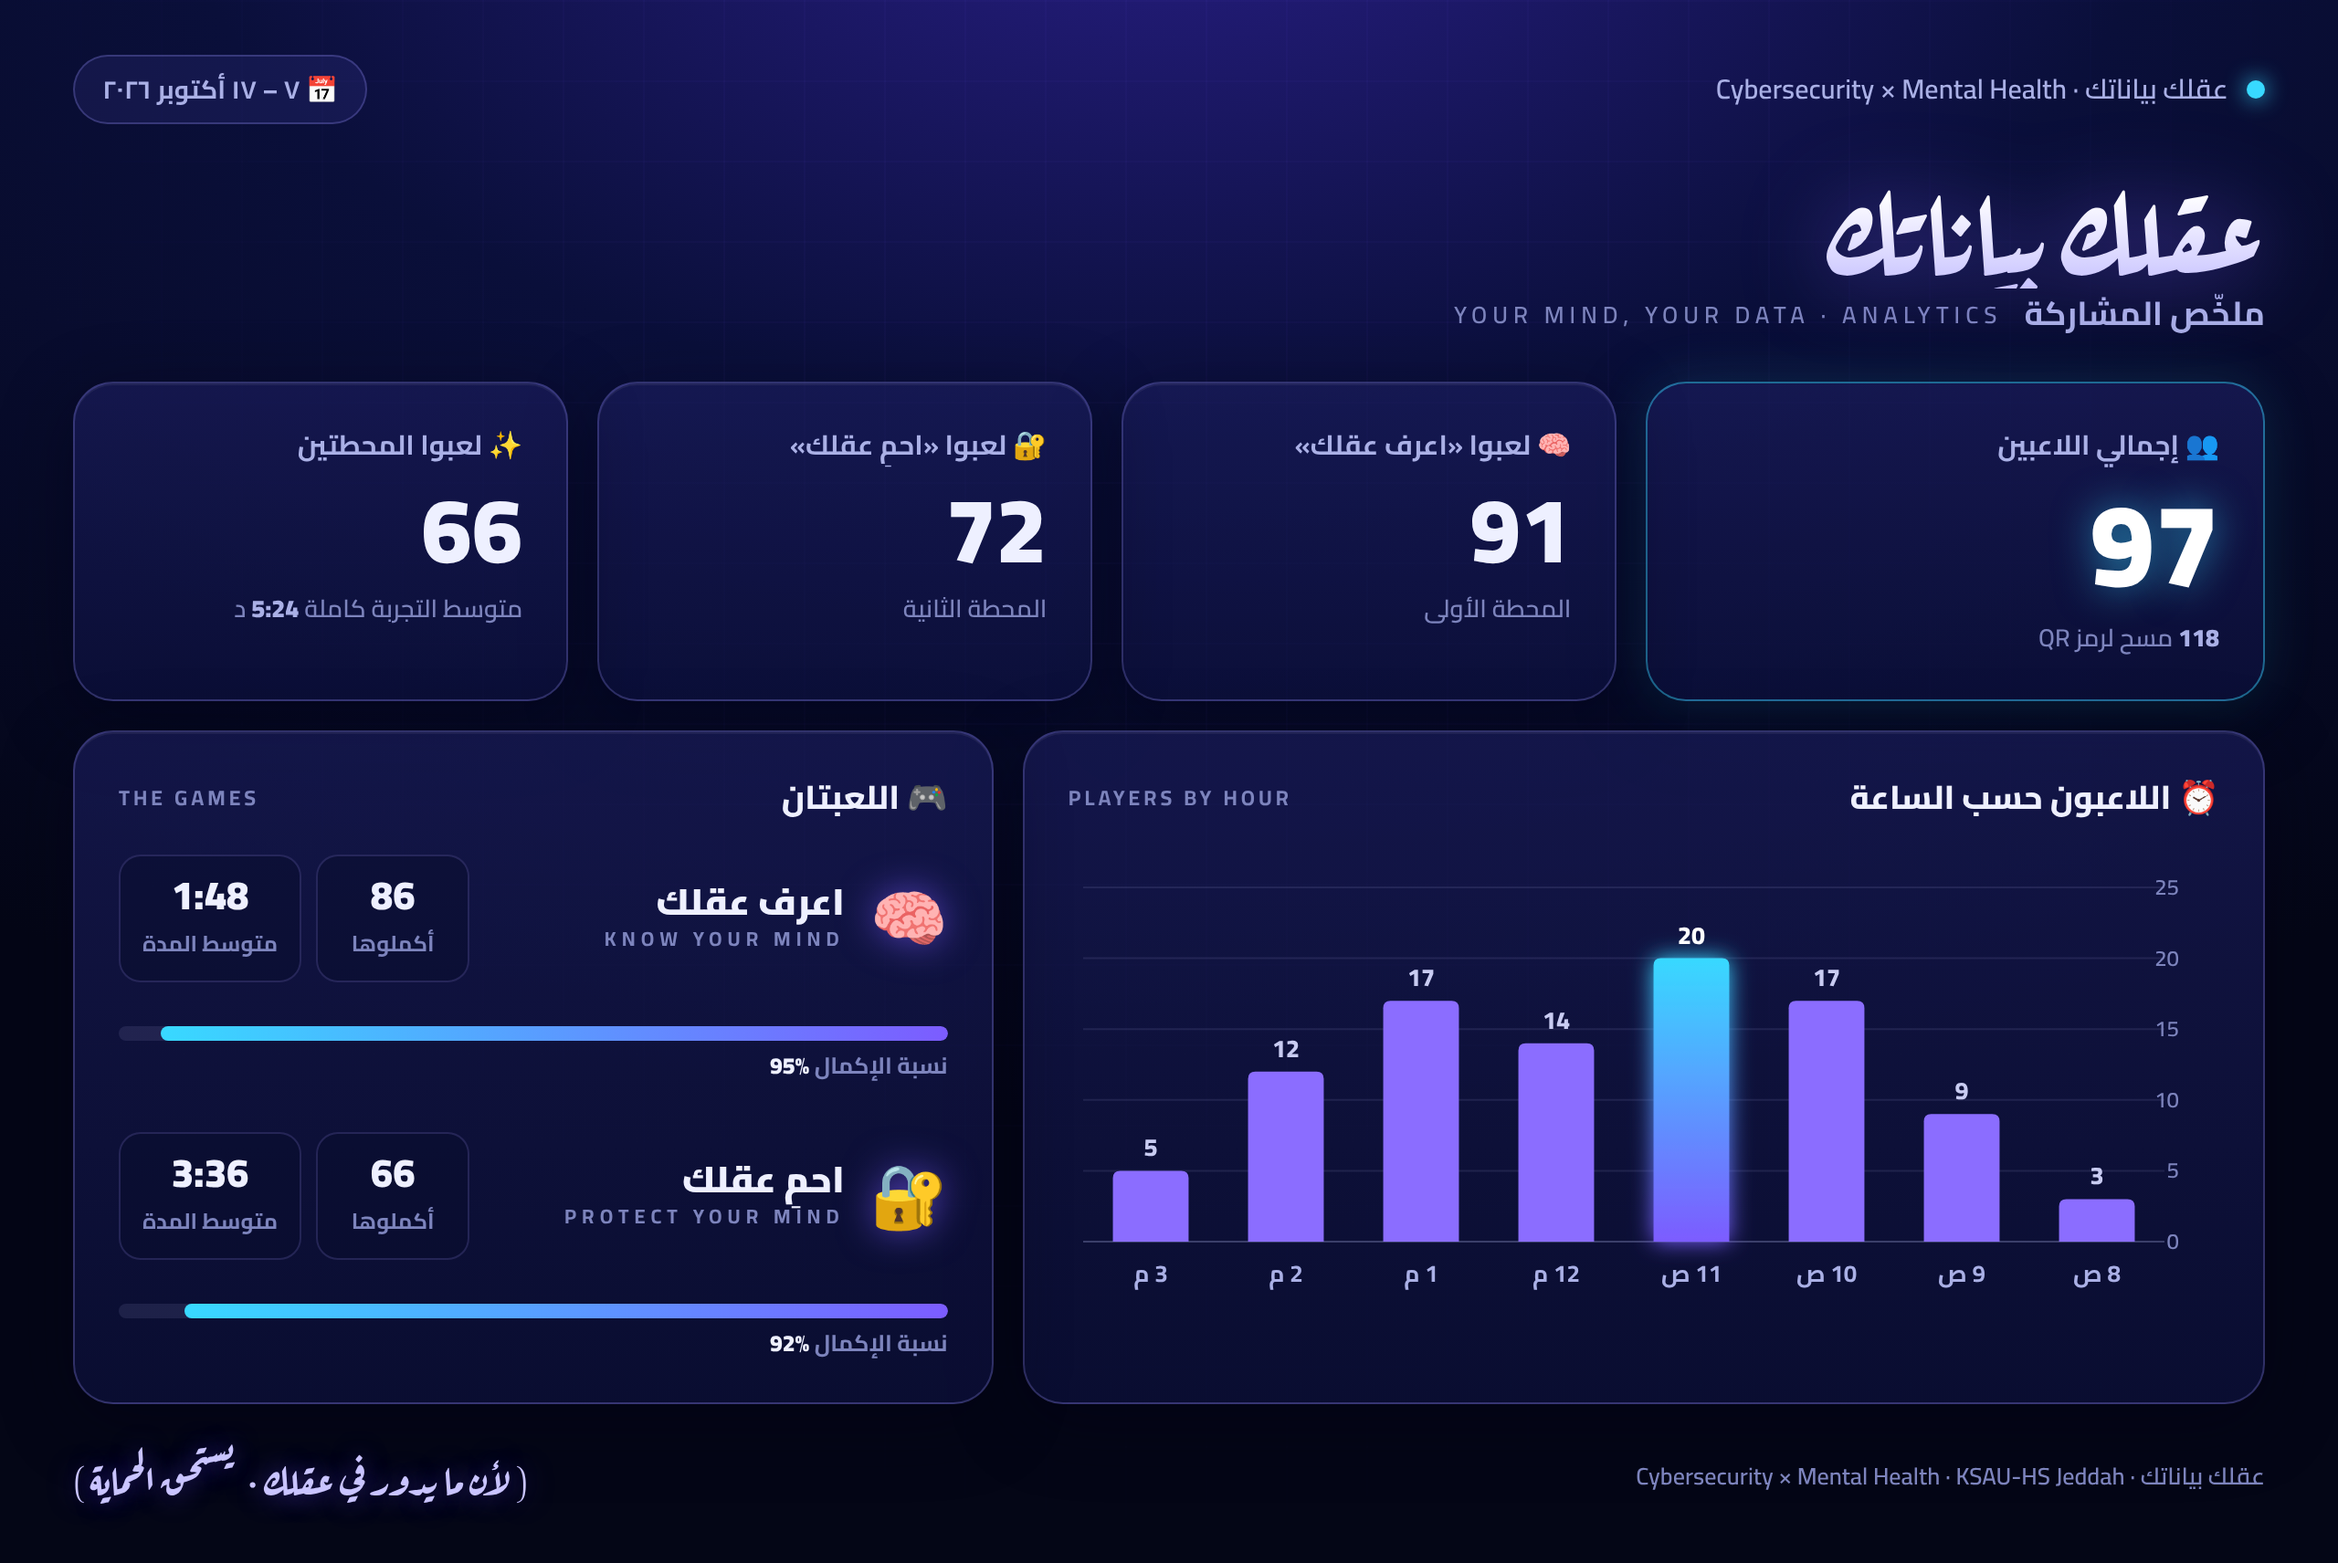
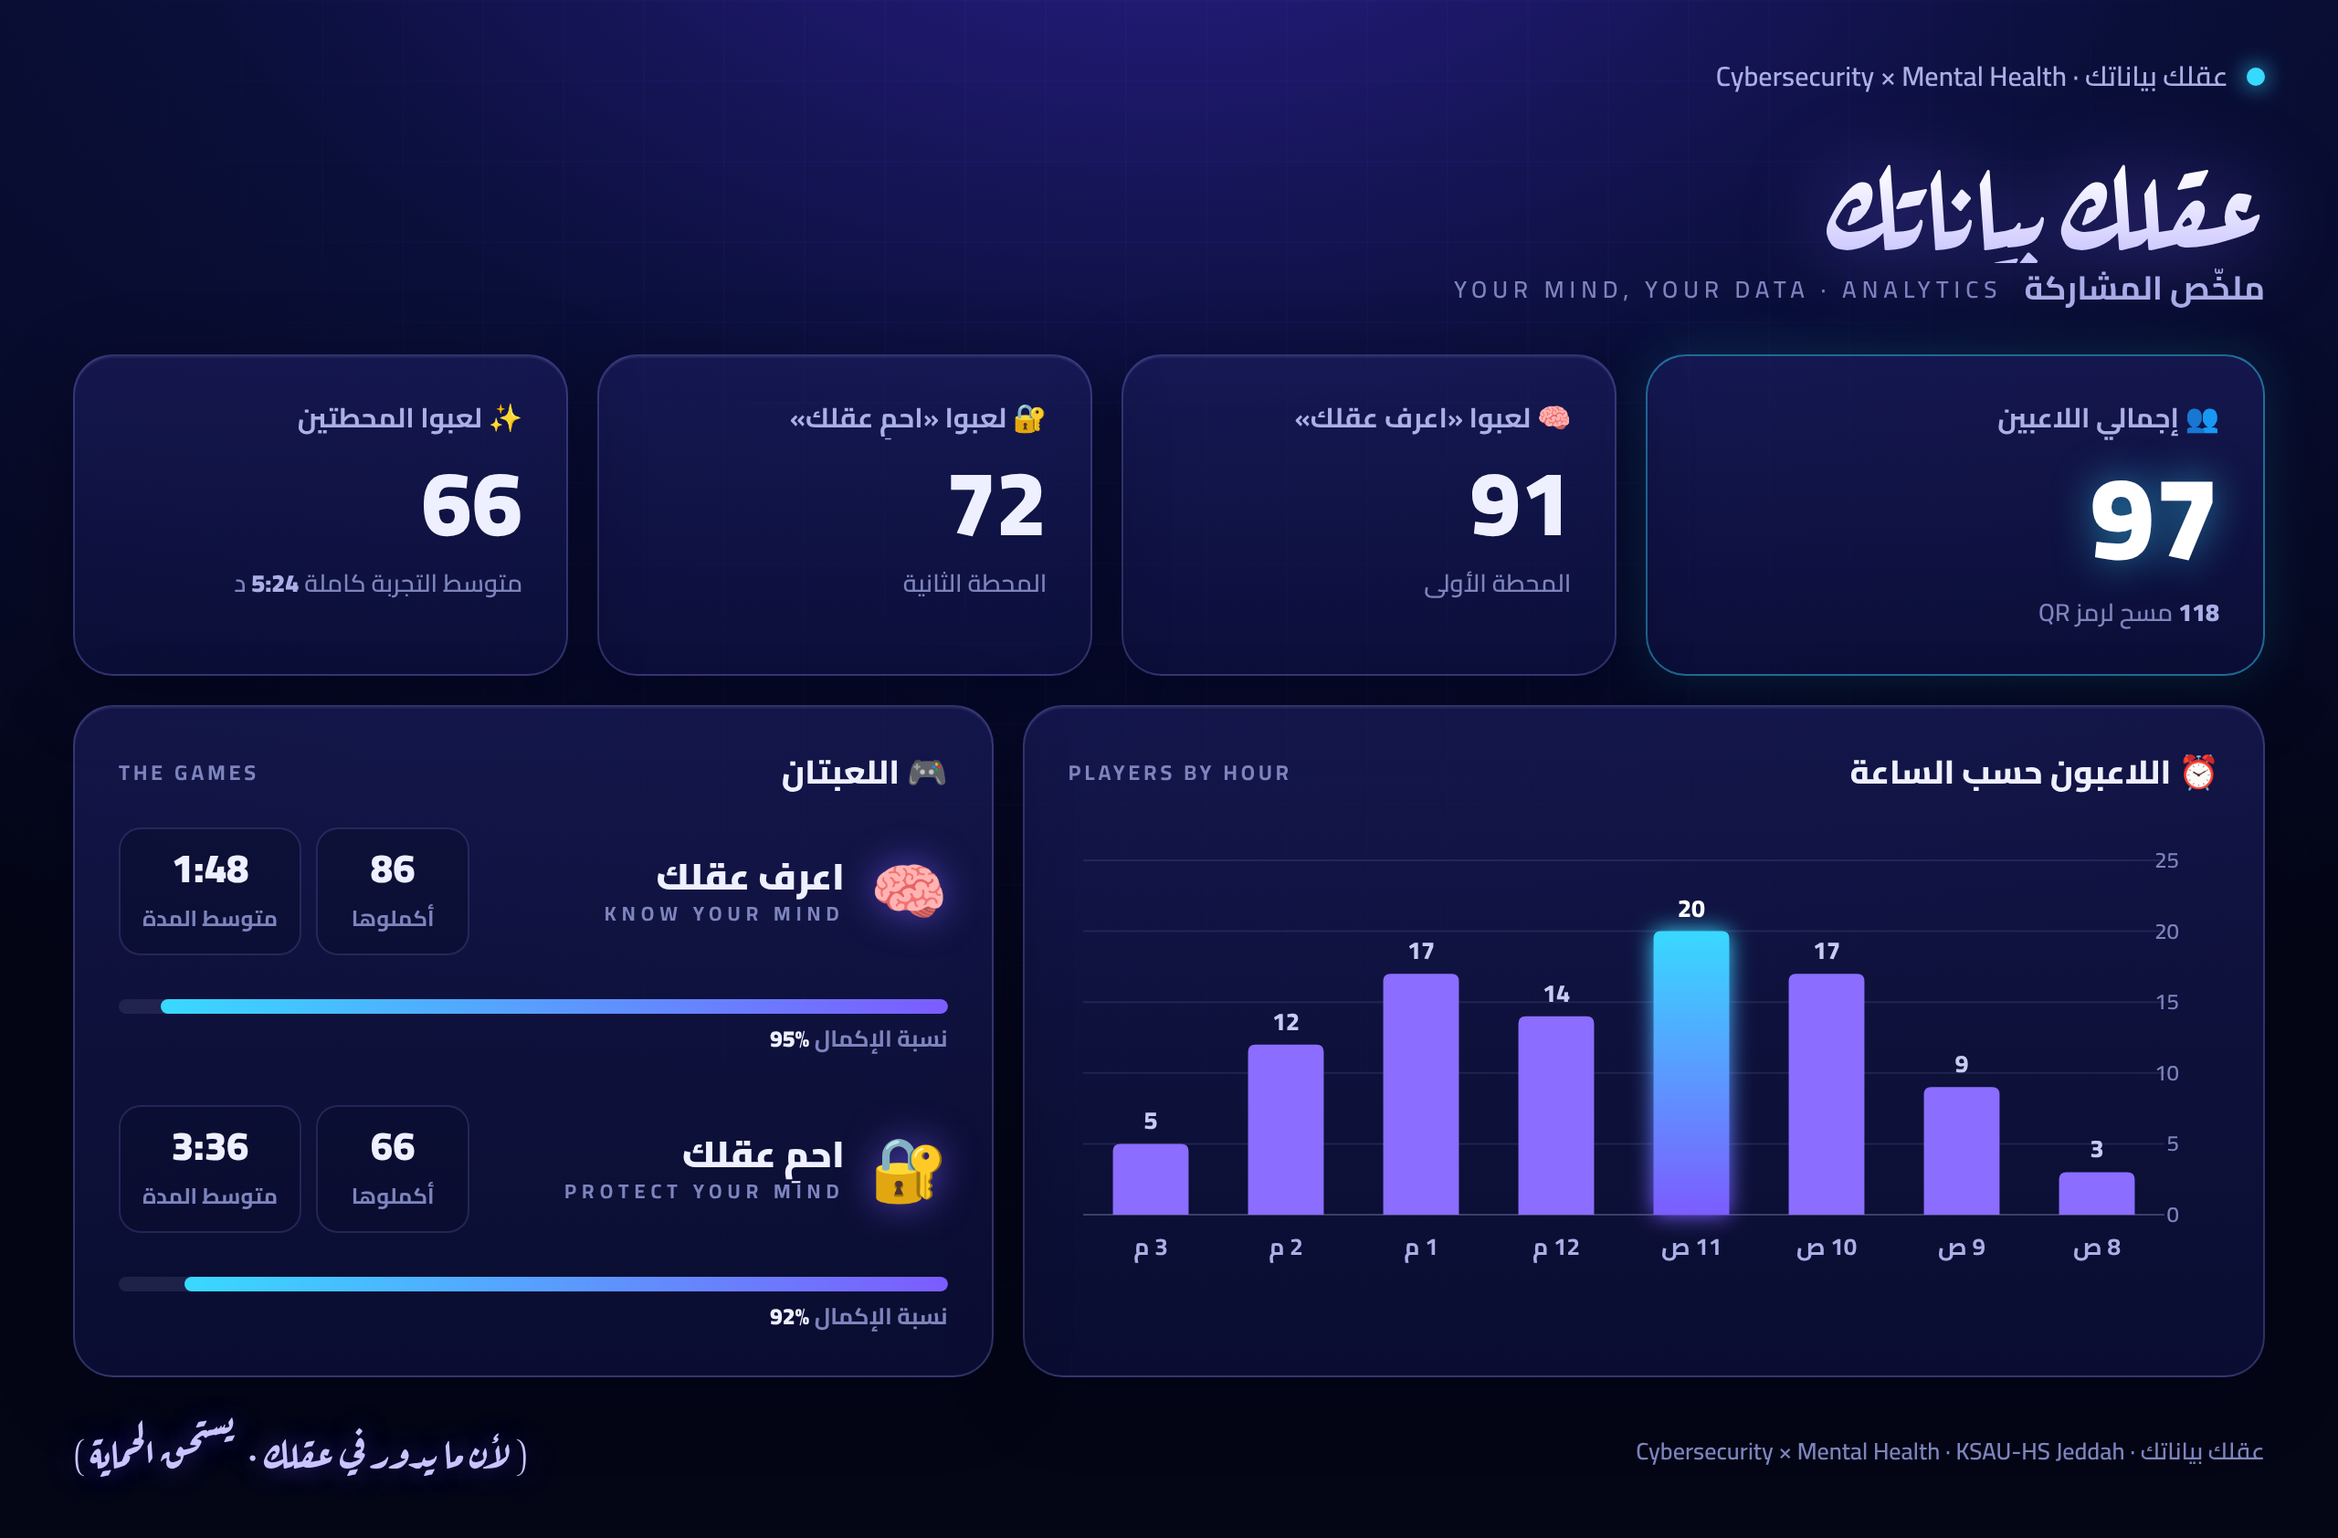
Remove the date from the old-games analytics screenshot
Claude-Session: https://claude.ai/code/session_0178Qcr8bZU2sRaJkW412wN1

diff --git a/mockups/analytics/index.html b/mockups/analytics/index.html
@@ -88,7 +88,6 @@ footer .tag{font-family:'Aref Ruqaa',serif;font-size:22px;color:#c9c4ff;text-sha
 
   <div class="topbar">
     <span class="brand"><span class="dot"></span> عقلك بياناتك · Cybersecurity × Mental Health</span>
-    <span class="pill">📅 ٧ – ١٧ أكتوبر ٢٠٢٦</span>
   </div>
 
   <div class="head">

diff --git a/mockups/analytics/README.md b/mockups/analytics/README.md
@@ -1,7 +1,7 @@
 # Analytics screenshot · عقلك بياناتك
 
 A simple one-page summary for the **old two-booth games** (🧠 اعرف عقلك · Know Your Mind, 🔐 احمِ عقلك · Protect Your Mind),
-in that site's look (Aref Ruqaa title, Cairo, violet glass cards). Period: 7–17 October 2026, when the old site was live.
+in that site's look (Aref Ruqaa title, Cairo, violet glass cards).
 
 The figures are **sample data**, not tracked results: 97 players (91 played Know Your Mind, 72 played Protect Your Mind,
 66 played both), players by hour, completions and average time per game. Edit the numbers in `index.html` to change them.
